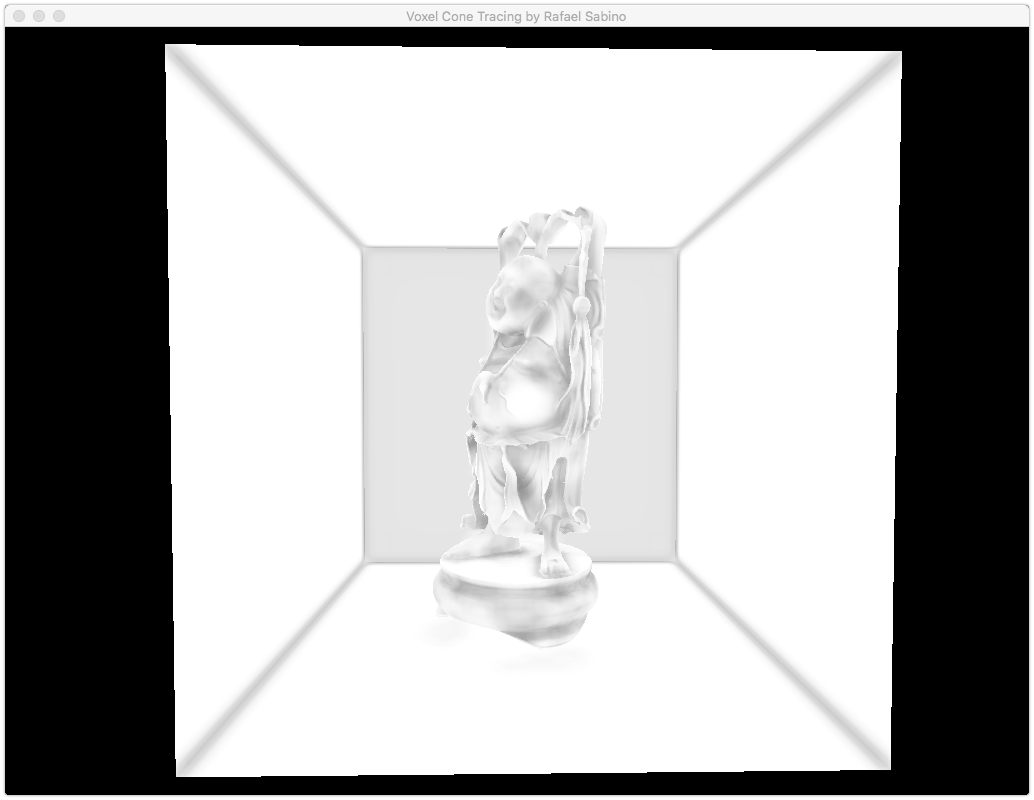
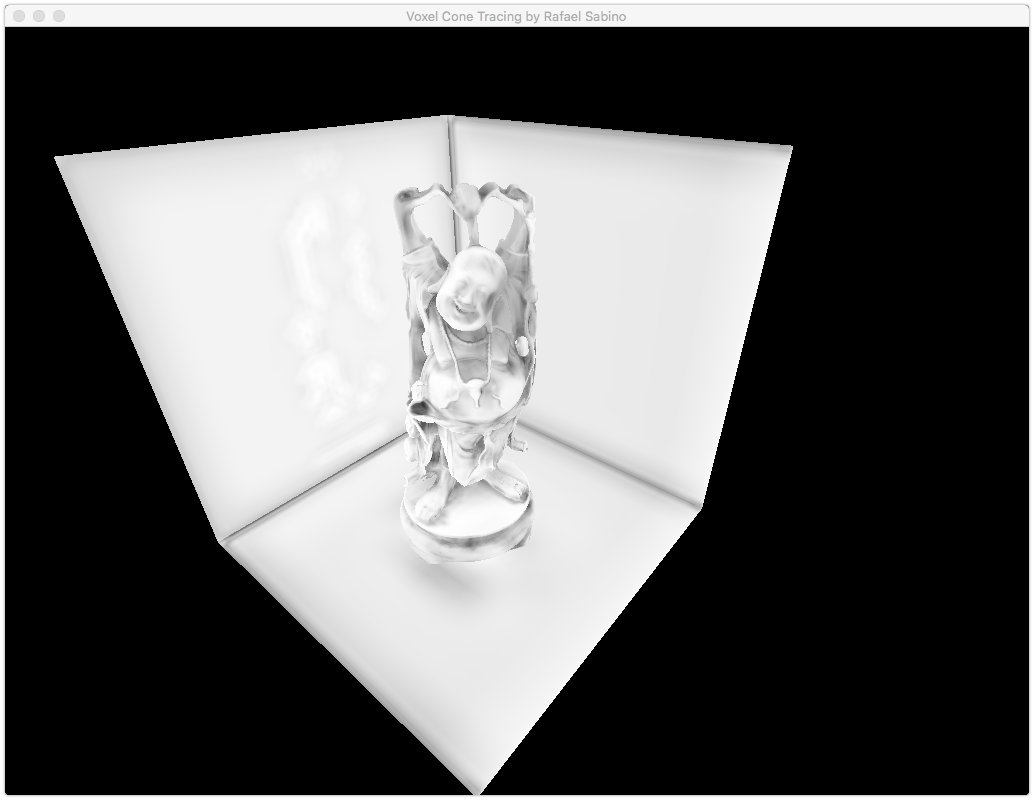
Interpolation Between LOD's
Opengl 4.1 doesn't support this feataure so I had to make the shader do it in code.  The reason I'm doing this is because previously there was too much banding happening due to the sudden switch between the different LOD samples, with this change, the banding has gone away, and both direct and indirect lighting has smoothed out.

diff --git a/Source/Graphic/RenderTarget/VoxelConeTracingRT.cpp b/Source/Graphic/RenderTarget/VoxelConeTracingRT.cpp
@@ -160,7 +160,7 @@ void VoxelConeTracingRT::setMipMapParameters(ShaderParameter::ShaderParamsGroup&
     
     settings[albedoArgs[index]] = albedoSampler;
     settings[normalArgs[index]] = normalSampler;
-    
+    settings["numberOfLods"] = (GLuint)(albedoMipMaps.size() + 1);
     ++index;
     
     assert(albedoMipMaps.size() == normalMipMaps.size());
@@ -196,15 +196,12 @@ void VoxelConeTracingRT::setCameraParameters(ShaderParameter::ShaderParamsGroup&
 void VoxelConeTracingRT::setConeApertureAndVariances(ShaderParameter::ShaderParamsGroup& params)
 {
     static const float PI = 3.14159265359f;
-    static float apertureInDegrees = 0.f;
+    static float apertureInDegrees = 8.0f;
     
     float radians = apertureInDegrees * (PI/180.0f);
     float initialApertureInRadians = radians;
     for(int i = 0; i < albedoMipMaps.size(); ++i)
     {
-        
-        sprintf(coneApertureArgs[i], "coneApertures[%d]", i);
-        params[coneApertureArgs[i]] = initialApertureInRadians;
         
         sprintf(coneVariances[i], "coneVariances[%d]", i);
         float value = cos(initialApertureInRadians);

diff --git a/Source/Graphic/RenderTarget/VoxelConeTracingRT.h b/Source/Graphic/RenderTarget/VoxelConeTracingRT.h
@@ -50,7 +50,6 @@ private:
     char normalArgs[MAX_ARGUMENTS][MAX_ARGUMENTS ];
     char albedoArgs[MAX_ARGUMENTS][MAX_ARGUMENTS];
     char samplingRayArgs[MAX_ARGUMENTS][MAX_ARGUMENTS];
-    char coneApertureArgs[MAX_ARGUMENTS][MAX_ARGUMENTS];
     char coneVariances[MAX_ARGUMENTS][MAX_ARGUMENTS];
     
     std::shared_ptr<VoxelizationConeTracingMaterial> voxConeTracing = nullptr;
